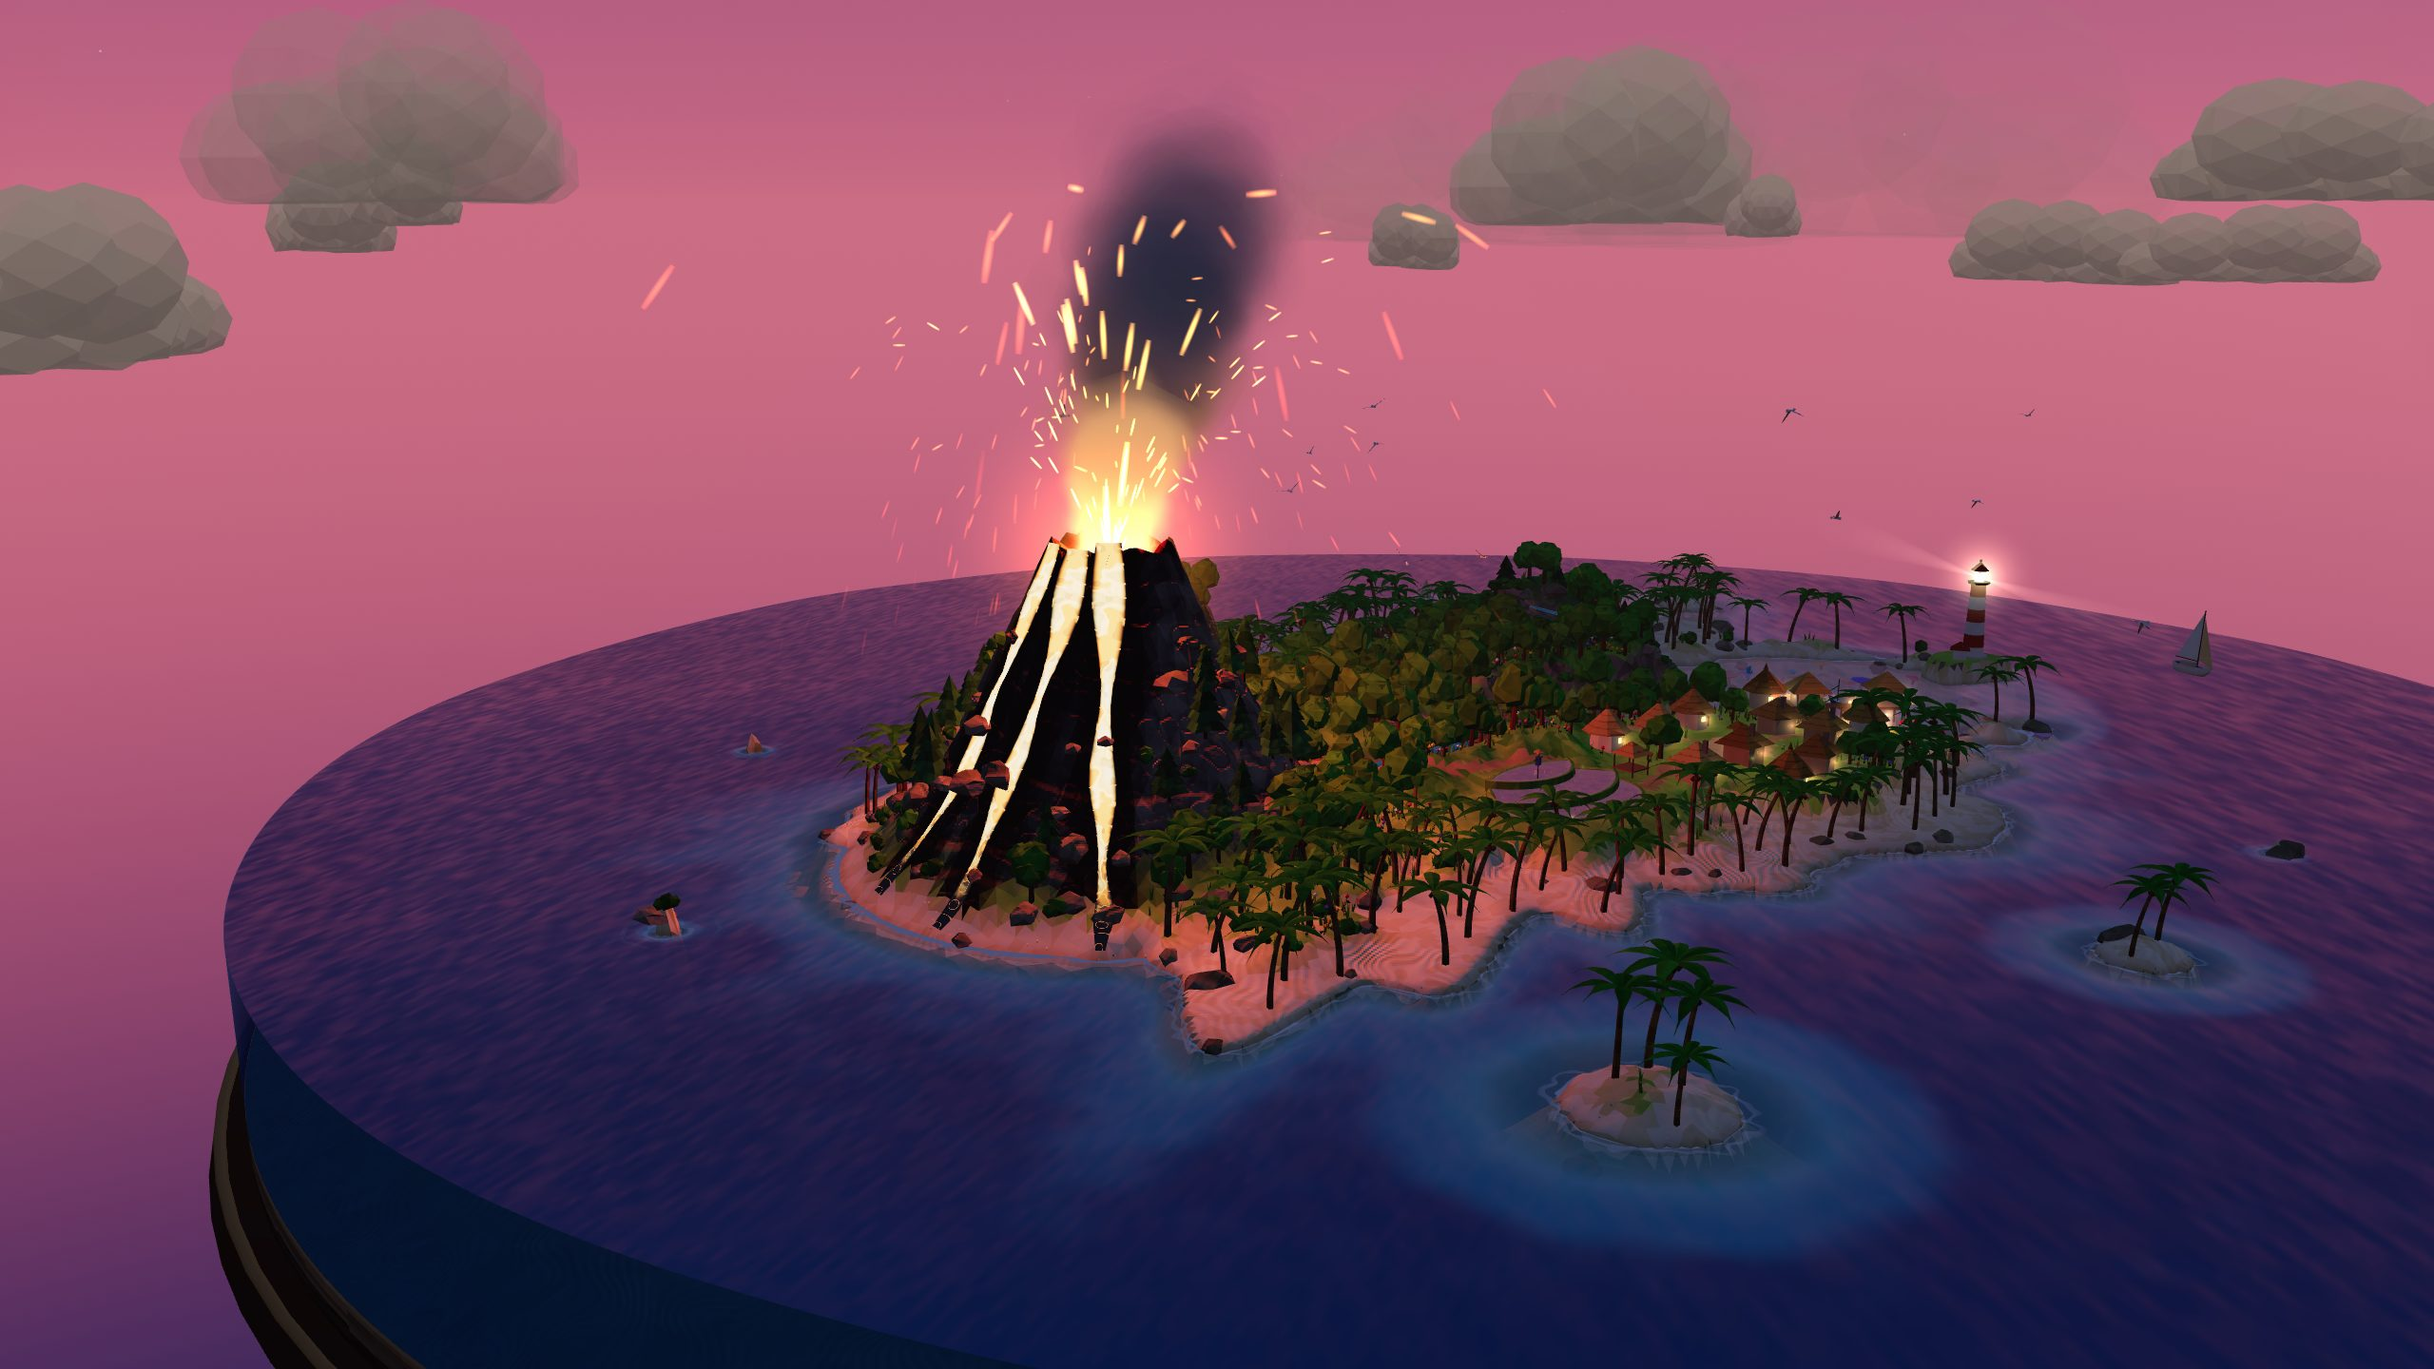
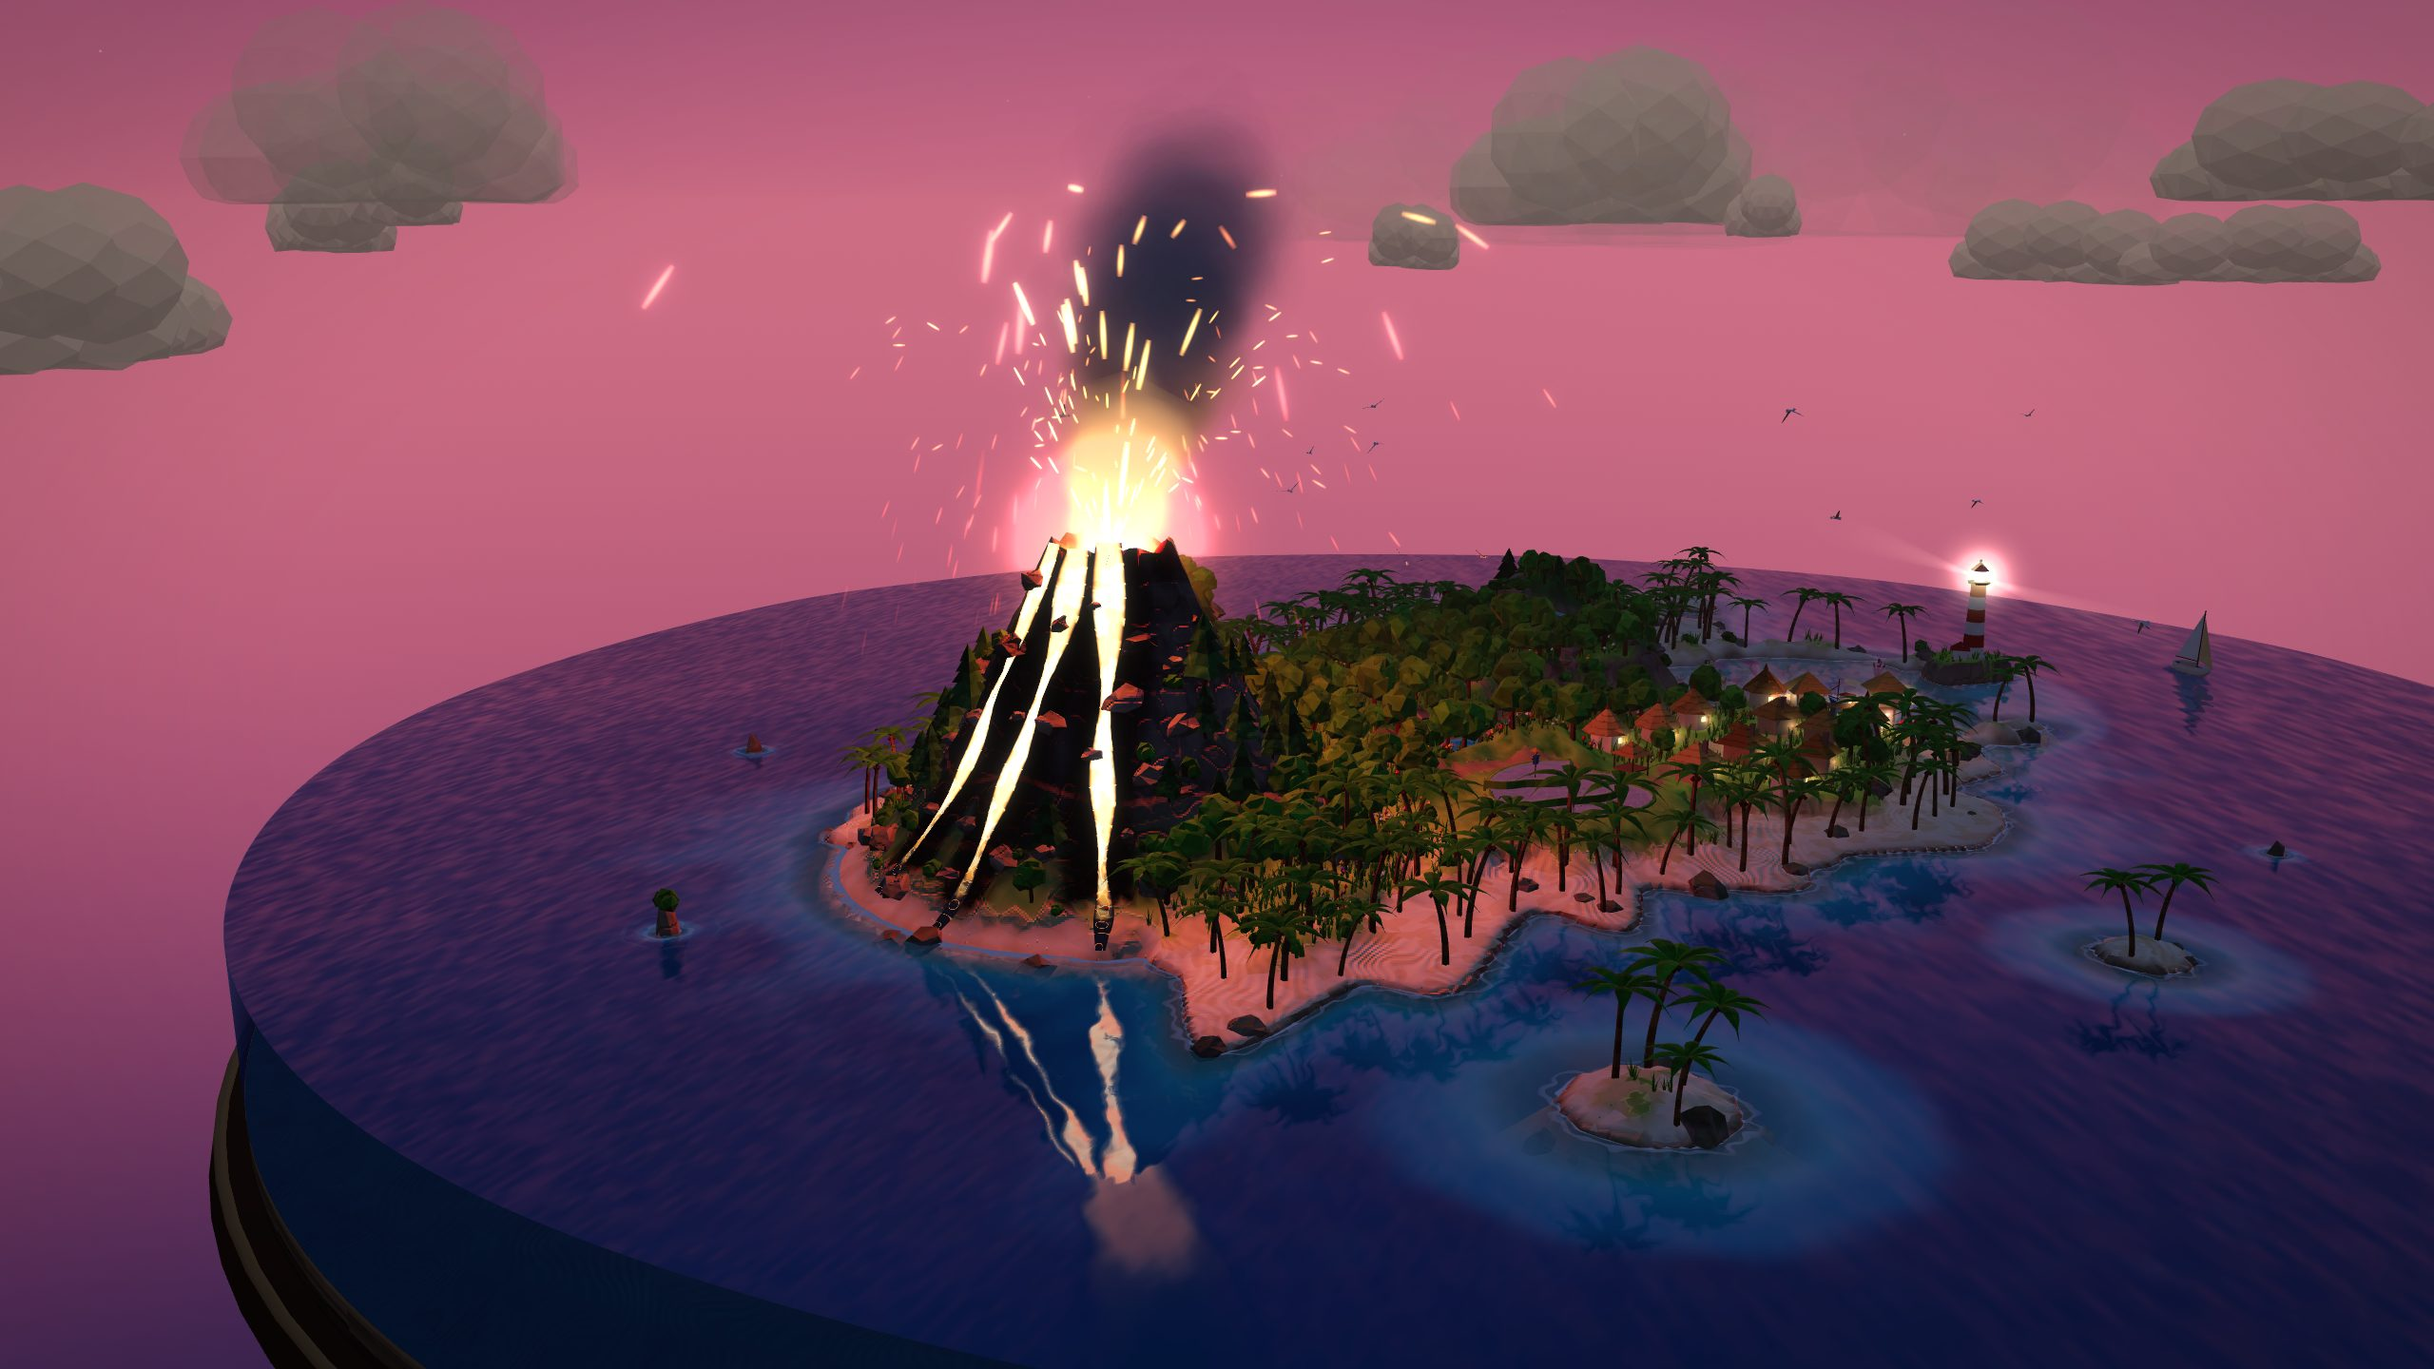
Docs and screenshots: glow, reflections, grass, cliffs and the new paddies
CLAUDE.md: the frame wrapper, post step, mirror pass and shedding order,
gloss, grass placement, the cliff colouring, the paddy rim and terrace
functions (and that the field is no longer symmetric), and the measured
baseline for both tiers with the budget rule reworded around it.
README: feature lines for light and water and what Low leaves out.
Screenshots regenerated.

Claude-Session: https://claude.ai/code/session_01Ta83Qz58gxyBifAwgWJ2ZY

diff --git a/CLAUDE.md b/CLAUDE.md
@@ -50,13 +50,21 @@ A just-for-fun, procedural low-poly three.js island diorama (volcano, village, l
   | `wn` | SVG icons: Material Symbols Rounded paths wrapped by `Be` (see UI-GUIDELINES.md, Icons) |
   | `wf` | UI (panel, toasts, keys) |
   | `ul` | audio class |
-  | `jx` | main: renderer, scene, lighting `Te(dt)`, simulation step `Et(dt)`, loop `bt`, `window.__island` |
+  | `jx` | main: renderer, scene, lighting `Te(dt)`, simulation step `Et(dt)`, loop `bt`, frame `otiFrame` (mirror pass, scene, post step), `window.__island` |
   | `Ri` | material patcher (snow/wet/wind shader hooks, and the per-pixel surface detail on High) |
 
   Helpers: `at` tint geometry, `Ue` merge geometries, `Ze` seeded rng, `ce` clamp, `xe` lerp, `Nt` smoothstep, `De` world radius (86).
-- Patched-in code uses `oti`-prefixed names (`otiP` plugin list, `otiU` plugin update, `otiF` per-frame shadow throttle + adaptive pixel ratio, `otiSlow`/`otiFT`/`otiAd`/`otiWarm` adaptive resolution state, `otiFS` fish schools, `otiAD`/`otiAR` aurora dice...). Realism pass: terrain `otiQ`/`otiL` (adaptive lattice), `otiV`/`otiG` (per-vertex normal + occlusion cache), land-first index order with the seabed left out of the shadow pass; `otiVG` vegetation vertex gradient; `otiGlow`/`otiPlaza` night plaza light pool uniforms; `otiDry` skips water cells under land. Paddies (three nested crescent pools in an ellipse): `otiTR` ring radius round the arc centre, `otiTQ` ellipse metric, `otiTK(k)` radius of riser wall k, `otiTH` stepped height used in `Yu`, `otiTD` signed footprint distance (blend apron, `sr`), `otiTW` field-local to world, `otiTP`/`otiTF` points on an arc / on the rim ellipse, `otiTT`/`otiTA` where an arc meets the rim, `otiTB(k,t)` uphill and downhill edge of pool k; `otiWa` builds a plump wall along a polyline in `uf` (`otiR` its rng); the still water is one sheet per pool appended to the river mesh in `_f` with `aFade = 2`, shaded in the river shader's `vFade > 1.5` branch (rivers keep `aFade` 0..1 and their old code path). Lighthouse islet in `Fx`: `otiLD`/`otiLT` (flat top, kept out of the lagoon gap). Some short names (`otiF`, `otiV`) are reused as locals in other scopes: grep with context. Use the same prefix for anything new so patches stay greppable.
+- Patched-in code uses `oti`-prefixed names (`otiP` plugin list, `otiU` plugin update, `otiF` per-frame shadow throttle + adaptive pixel ratio, `otiSlow`/`otiFT`/`otiAd`/`otiWarm` adaptive resolution state, `otiFS` fish schools, `otiAD`/`otiAR` aurora dice...). Realism pass: terrain `otiQ`/`otiL` (adaptive lattice), `otiV`/`otiG` (per-vertex normal + occlusion cache), land-first index order with the seabed left out of the shadow pass; `otiVG` vegetation vertex gradient; `otiGlow`/`otiPlaza` night plaza light pool uniforms; `otiDry` skips water cells under land. Paddies (three nested pools inside a curved rim, split by two S-curved terrace walls): `otiTG(f)` scales the rim ellipse round its outline (change the outline here; `otiTQ` and `otiTF` both use it), so the field is **not left-right symmetric**: `otiTT(p, side)` and `otiTA(p, side)` take a side (+1 or -1) and anything built along the rim or a wall must ask for each side separately; `otiTS(p, a)` offset of the ring radius at angle `a` (an S along the upper wall, a different lop-sided one along the lower, blended between the two levels and faded out where each wall meets the rim; change the wall shapes here), `otiTR` ring radius round the arc centre **with that offset applied**, `otiTP(p, a)` the point on wall radius `p` at angle `a` (solves the offset back), `otiTQ` ellipse metric, `otiTK(k)` radius of riser wall k, `otiTH` stepped height used in `Yu`, `otiTD` signed footprint distance (blend apron, `sr`), `otiTW` field-local to world, `otiTF` points on the rim ellipse, `otiTT`/`otiTA` where an arc meets the rim, `otiTB(k,t)` uphill and downhill edge of pool k; `otiWa` builds a plump wall along a polyline in `uf` (`otiR` its rng); the still water is one sheet per pool appended to the river mesh in `_f` with `aFade = 2`, shaded in the river shader's `vFade > 1.5` branch (rivers keep `aFade` 0..1 and their old code path). Lighthouse islet in `Fx`: `otiLD`/`otiLT` (flat top, kept out of the lagoon gap). Some short names (`otiF`, `otiV`) are reused as locals in other scopes: grep with context. Use the same prefix for anything new so patches stay greppable.
 
 - Surface detail (High only, all inside `Ri`, no textures): the fragment shader reads what a surface is from its vertex colour, height and slope and adds colour variation plus a height `otiBh` that `otiBump` turns into bump lighting after `<normal_fragment_maps>`. `Ri` option `detail`: terrain (`terrain: true`: grass mottling, sand ripples/pebbles, `otiRock` strata, path pebbles), `"rock"` (boulders, `otiRock`), `"veg"` (leaf dapples on green, bark streaks otherwise), `"grain"` (village and boats: grain down each face, thatch rows on warm sloped faces); `ji` picks `"veg"` for swaying instances and `"rock"` for the rest (coral gets none). GLSL helpers: `otiCell` (cellular), `otiN3` (3D value noise), `otiLod(k, fw)` (fades a detail of k cycles per unit before it gets smaller than a pixel: use it on every octave), `otiSp` (sand/snow mask for the sun glints added in the `<opaque_fragment>` hook). `vOP` is the un-swayed local position plus the instance offset, so patterns do not slide when the wind bends a tree or a boat moves. `Zt.otiDet.value` (1 High, 0 Low) is read **when the shader is compiled** and is part of the program cache key: Low compiles without any of this, and `setQuality` disposes the scene's materials so they recompile. New detail must stay in the existing programs (same options on materials that share one), so the program count does not move.
+
+- Gloss (High, in `Ri`): the detail blocks also set `otiGl` (wet-sand band at the waterline, leaves, anything rain-wet); the `<opaque_fragment>` hook adds a sun highlight and a sky-coloured grazing reflection from the bumped normal.
+- Cliffs (`Qu`, both tiers): steep sand/dune/shallow-seabed faces are coloured as rock, steep faces (`X > .6`) take their colour per corner from the corner's own height and slope, and keep part of the smoothed normal (`otiS`), so cliff and islet sides do not break into stretched sand-and-rock slivers.
+- Grass (`cf`): `otiXx()` is the High tuft (5 curved blades); `otiGX` are the extra High tufts from a jittered grid with their own rng (`Ze(4711)`/`Ze(4712)`), appended after the original 950 in the same instanced mesh. Low keeps `Xx()` and the original count. Do not draw from `ve` for new placements: it would move everything placed after.
+- Frame (`otiFrame(force)` in `jx`, called by the loop and by `__island.step`): resets `renderer.info` (autoReset is off, so `info()` reports whole-frame totals), runs `otiMirror`, renders the scene to the canvas as before, then `otiPostRun`.
+  - `otiPostRun` (High): copies the finished frame into a texture (`copyFramebufferToTexture` on a plain texture flagged `isFramebufferTexture`), bright-pass plus three downsamples and three additive upsamples over four 8-bit targets (1/2 to 1/16), then one premultiplied full-screen quad adds the glow and the vignette. Threshold and strength follow `uNight` and snow cover. The scene render itself is untouched (display-space glow, not HDR). State in `otiPo`; freed on Low.
+  - `otiMirror` (High): planar water reflection. Mirrored camera about y = 0 with an oblique near plane, half-size target `otiMi.rt`, flagged `isXRRenderTarget` with an sRGB texture so the pass uses the **same programs** as the canvas (without that every material compiles a second variant); the water shader (`OTI_REFL` define, uniforms `otiRT`/`otiRM`/`otiRK`) undoes sRGB and the tone curve before mixing it into its sky reflection. Hidden in the pass: water, rim wall, sky dome, clouds (they read as white patches lying on the sea), rain, snow, wildlife, shadowless plants and **every additive material** (they write alpha 1 over empty sky, which shows as black blocks); the seabed is skipped through the terrain's `onBeforeShadow` draw range. Skipped when `otiRK` is 0 (rough sea, rain, ice, camera steep or very low) and, in the live loop, on shadow-map frames; `step` always renders it.
+  - Shedding: when the adaptive check finds the page slow it sets `otiMiOff` (reflections) first, then lowers the pixel ratio, then sets `otiPoOff` (glow); `setQuality` clears both. `setAdaptiveResolution(false)` freezes all of it.
 
 - Camera (`l` = OrbitControls in `jx`): pan over the ground (right-drag, two fingers, arrows on the focused canvas), tilt 0.02–1.5 rad, distance `max(6, q*.03)`–`q*1.7`, pivot within 70 of the default `(-1, 2.5, 3)` (`l.cursor`, `l.maxTargetRadius`). `otiCam` (set by user input, cleared by `setCamera`/`reset`) makes the pivot ride the ground (`max(te,0)+otiCamK`) and eases the camera up to terrain + 9.5 over land (`otiCamH`/`otiCamU`); the hard floor at terrain + 3.5 applies to every camera. `otiHome` is the reset view (double-click/double-tap via `otiTap*`, Home key). Scripted cameras are unaffected.
 
@@ -96,8 +104,8 @@ Also `worldRadius` (`De`), `scene`, `camera`, `controls`, `state`, `toast(msg)` 
 - Chromium flags: `--use-gl=angle --use-angle=swiftshader --enable-unsafe-swiftshader --ignore-gpu-blocklist`. Playwright may be installed globally (`npm root -g`); do not add it to the repo.
 - Pause the page's own loop with an init script that wraps `requestAnimationFrame` and checks a `window.__pauseLoop` flag (see `scripts/screenshots.mjs`), then drive time with `__island.step(dt, n)` (runs n simulation steps, renders once).
 - Useful API: `setWeather(name, instant)`, `setTime(h)`, `setSpeed`, `setAuto`, `setDayCycle`, `setAutoRotate`, `erupt()`, `setSnowCover`, `setCamera(az, el, distScale, tx, ty, tz)` (elevation 0.07 to 1.55 rad, was 0.21 to 1.39; distance clamped to `max(6, 3%)`–170% of the default, was `max(20, 8.5%)`–145%), `reset()`, `info()`, `ui.setOpen/setHidden/showToast`, `setAdaptiveResolution(false)`, `ships.summon()`, `ships.state()`.
-- Baseline from `info()` at load (1280x720): **54 draw calls, about 438k triangles on High (about 336k on Low), 30 programs, 4 textures**. Ships add at most 8 calls.
-- Budget rule: a change must not raise draw calls, triangles, programs, textures or vertex-buffer bytes at load, on High or Low.
+- Baseline from `info()` at load (1280x720), whole frame: **Low: 54 draw calls, about 336k triangles, 30 programs, 4 textures. High: 88 draw calls and about 638k triangles with the water reflection pass running (62 and about 485k without it, e.g. looking steeply down or in a storm), 33 programs, 10 textures.** Ships add at most 8 calls (16 while reflected).
+- Budget rule: a change must not raise draw calls, triangles, programs, textures or vertex-buffer bytes at load, on High or Low. Low is the floor that must not move at all; the High figures above already include the glow, reflections and dense grass, which were added knowingly and are not a licence for more.
 - Collect `console` errors/warnings and `pageerror`; a clean run has none.
 - To test Low headless, make the page pick it at start-up: an init script that reports `(pointer: coarse)` as matching and `navigator.hardwareConcurrency` as 2 (the debug API has no quality setter; the panel's Quality button, `.a-q`, toggles it at runtime).
 - Swiftshader is slow: step in chunks, and give `page.screenshot` a long timeout (new effects compile shaders on first sight).

diff --git a/README.md b/README.md
@@ -11,14 +11,15 @@ A tiny procedural 3D island diorama that lives in a single HTML file. Open it, d
 - **Eight weathers**: clear, partly cloudy, overcast, fog, rain, thunderstorm (with lightning), gale and snow. Left alone, the island picks its own weather every so often.
 - **Day and night**: the sun, moon and stars move on their own, sunsets glow, the village lights come on after dark, and some nights bring an aurora.
 - **A sleepy volcano** that smokes all day and erupts now and then, or whenever you press Erupt.
-- **A little village** with huts, three little terraced paddies whose still water mirrors the sky (ducks included), a jetty, a lighthouse on its own rocky islet and a waterfall.
+- **A little village** with huts, three little terraced paddies with winding walls, whose still water mirrors the sky (ducks included), a jetty, a lighthouse on its own rocky islet and a waterfall.
 - **Wildlife**: seagulls, leaping dolphins, schools of tropical fish in the lagoon and sea turtles.
 - **Snow that settles**: a real snowfall whitens the whole island and freezes the sea, and a snowy night hides a small Christmas surprise.
 - **Boats** bobbing and rolling on the same waves the water shader draws.
 - **A galleon and some friendly pirates**: every now and then a galleon sails by, and the pirates usually come out to meet it. They fire a few cannon puffs that always miss, the galleon fires back (also missing), and off it sails. Nobody gets hurt, nothing sinks. The ships stay in port in storms, gales and on a frozen sea.
 - **Sound** (off by default): waves, wind, rain, gulls, thunder and the odd cannon "poomf".
 - **Surfaces with texture**: rippled sand, mottled grass, layered rock, leafy canopies and thatched roofs, all drawn by the shaders (no image files). Zoom in to see it.
-- **Quality toggle**: High or Low, for older phones and laptops. Low also skips the surface detail. The page also lowers its resolution by itself if it is struggling.
+- **Light and water**: lamps, the campfire and lava glow after dark, wet sand and leaves catch the sun, and in calm weather the island, the boats and the clouds mirror in the water. Bring the camera down low over the lagoon.
+- **Quality toggle**: High or Low, for older phones and laptops. Low skips the surface detail, the glow, the reflections and the extra grass. On High the page drops the reflections, then some resolution, then the glow by itself if it is struggling. The page also lowers its resolution by itself if it is struggling.
 
 ## Gallery
 
